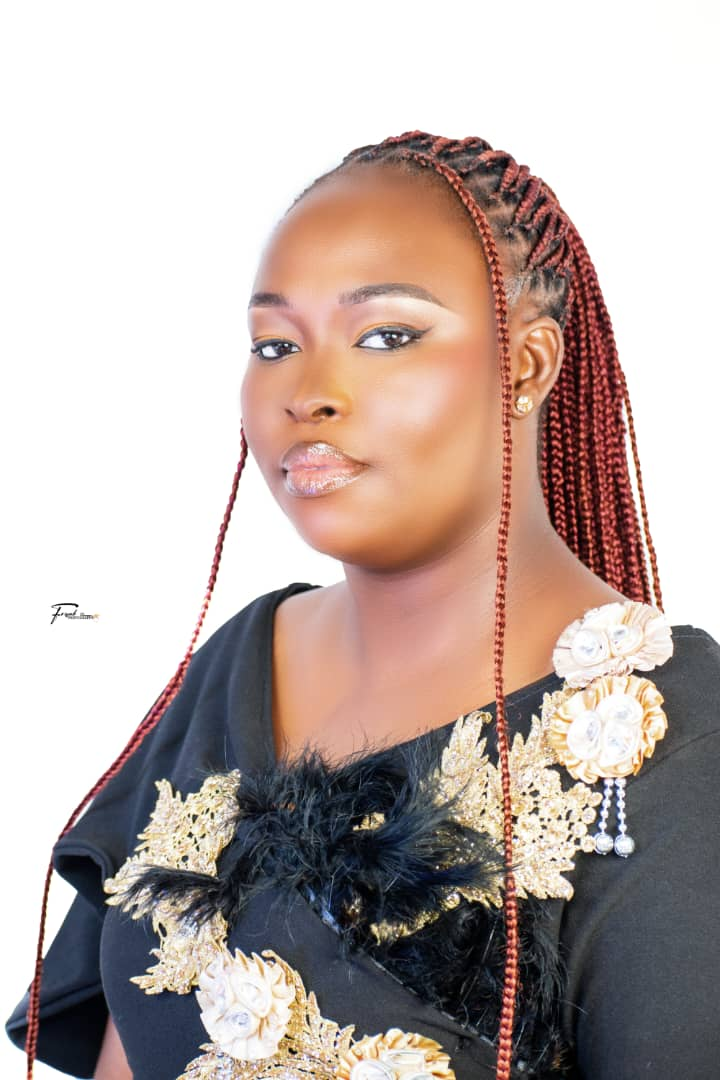
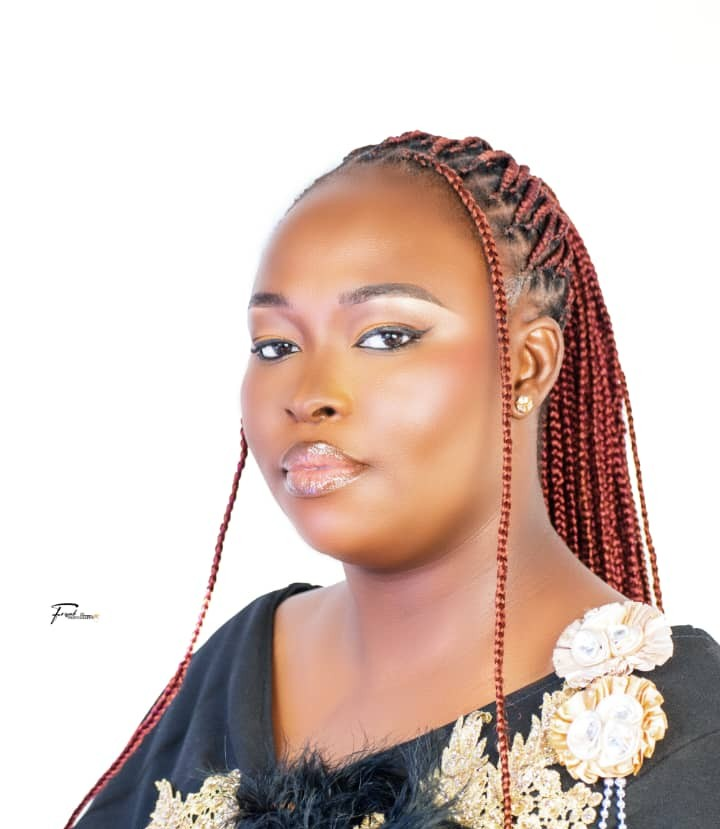
updates our projects content and images

diff --git a/ptc-website/about.html b/ptc-website/about.html
@@ -659,7 +659,12 @@
                 <div class="partner-logo">
                     <img src="Images/Partners Logo/logo-mission21.png" alt="Mission21">
                 </div>
+                <div class="partner-logo">
+                    <img src="Images/Partners Logo/Cornerstone.png" alt="Mission21">
+                </div>
             </div>
+
+            
 
             <div class="section-header">
     <h2 class="section-title">Regional Collaborators</h2>
